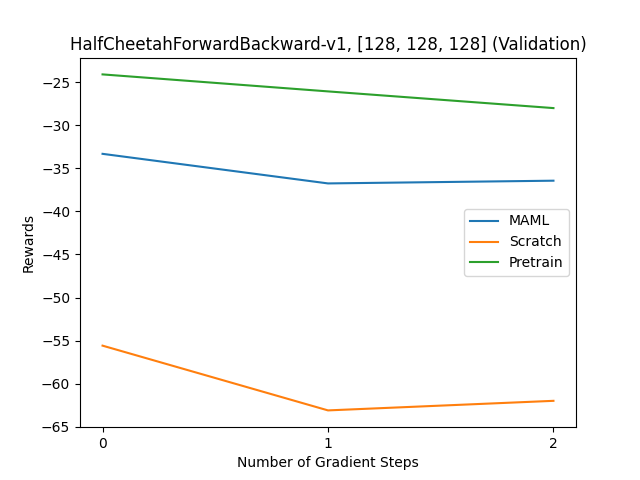
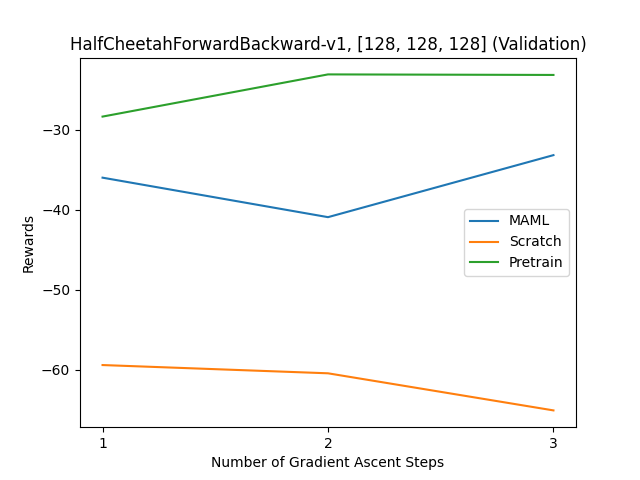
updated graphs

diff --git a/plot.py b/plot.py
@@ -16,13 +16,13 @@ def plotGraphs(env, hidden_dims, grad_steps=3, show=False):
 
     plt.figure()
     graph_ticks = min(len(maml_train), grad_steps)
-    x_axis = range(graph_ticks)
+    x_axis = range(1, graph_ticks + 1)
     plt.plot(x_axis, maml_train[:graph_ticks], label="MAML")
     plt.plot(x_axis, scratch_train[:graph_ticks], label="Scratch")
     plt.plot(x_axis, pretrain_train[:graph_ticks], label="Pretrain")
     plt.xticks(x_axis)
     plt.legend(loc="best")
-    plt.xlabel("Number of Gradient Steps")
+    plt.xlabel("Number of Gradient Ascent Steps")
     plt.ylabel("Rewards")
     plt.title(env + ", " +  str(hidden_dims) + ' (Validation)')
     plt.savefig("./graphs/" + env + "_" +  "_".join([str(n) for n in hidden_dims]) + ".png")
@@ -64,10 +64,10 @@ if __name__ == "__main__":
     plotGraphs("HalfCheetahForwardBackward-v1", [128,128], grad_steps=grad_steps,  show=True)
     plotGraphs("HalfCheetahForwardBackward-v1", [128,128, 128], grad_steps=grad_steps,  show=True)
     
-    plotGraphs("HumanoidForwardBackward-v1", [128], grad_steps=grad_steps, show=True)
-    plotGraphs("HumanoidForwardBackward-v1", [128,128], grad_steps=grad_steps, show=True)
-    plotGraphs("HumanoidForwardBackward-v1", [128,128,128], grad_steps=grad_steps, show=True)
-    plotGraphs("AntForwardBackward-v1", [128], grad_steps=grad_steps, show=True)
-    plotGraphs("AntForwardBackward-v1", [128,128], grad_steps=grad_steps, show=True)
-    plotGraphs("AntForwardBackward-v1", [128,128, 128], grad_steps=grad_steps, show=True)
+    # plotGraphs("HumanoidForwardBackward-v1", [128], grad_steps=grad_steps, show=True)
+    # plotGraphs("HumanoidForwardBackward-v1", [128,128], grad_steps=grad_steps, show=True)
+    # plotGraphs("HumanoidForwardBackward-v1", [128,128,128], grad_steps=grad_steps, show=True)
+    # plotGraphs("AntForwardBackward-v1", [128], grad_steps=grad_steps, show=True)
+    # plotGraphs("AntForwardBackward-v1", [128,128], grad_steps=grad_steps, show=True)
+    # plotGraphs("AntForwardBackward-v1", [128,128, 128], grad_steps=grad_steps, show=True)
 
